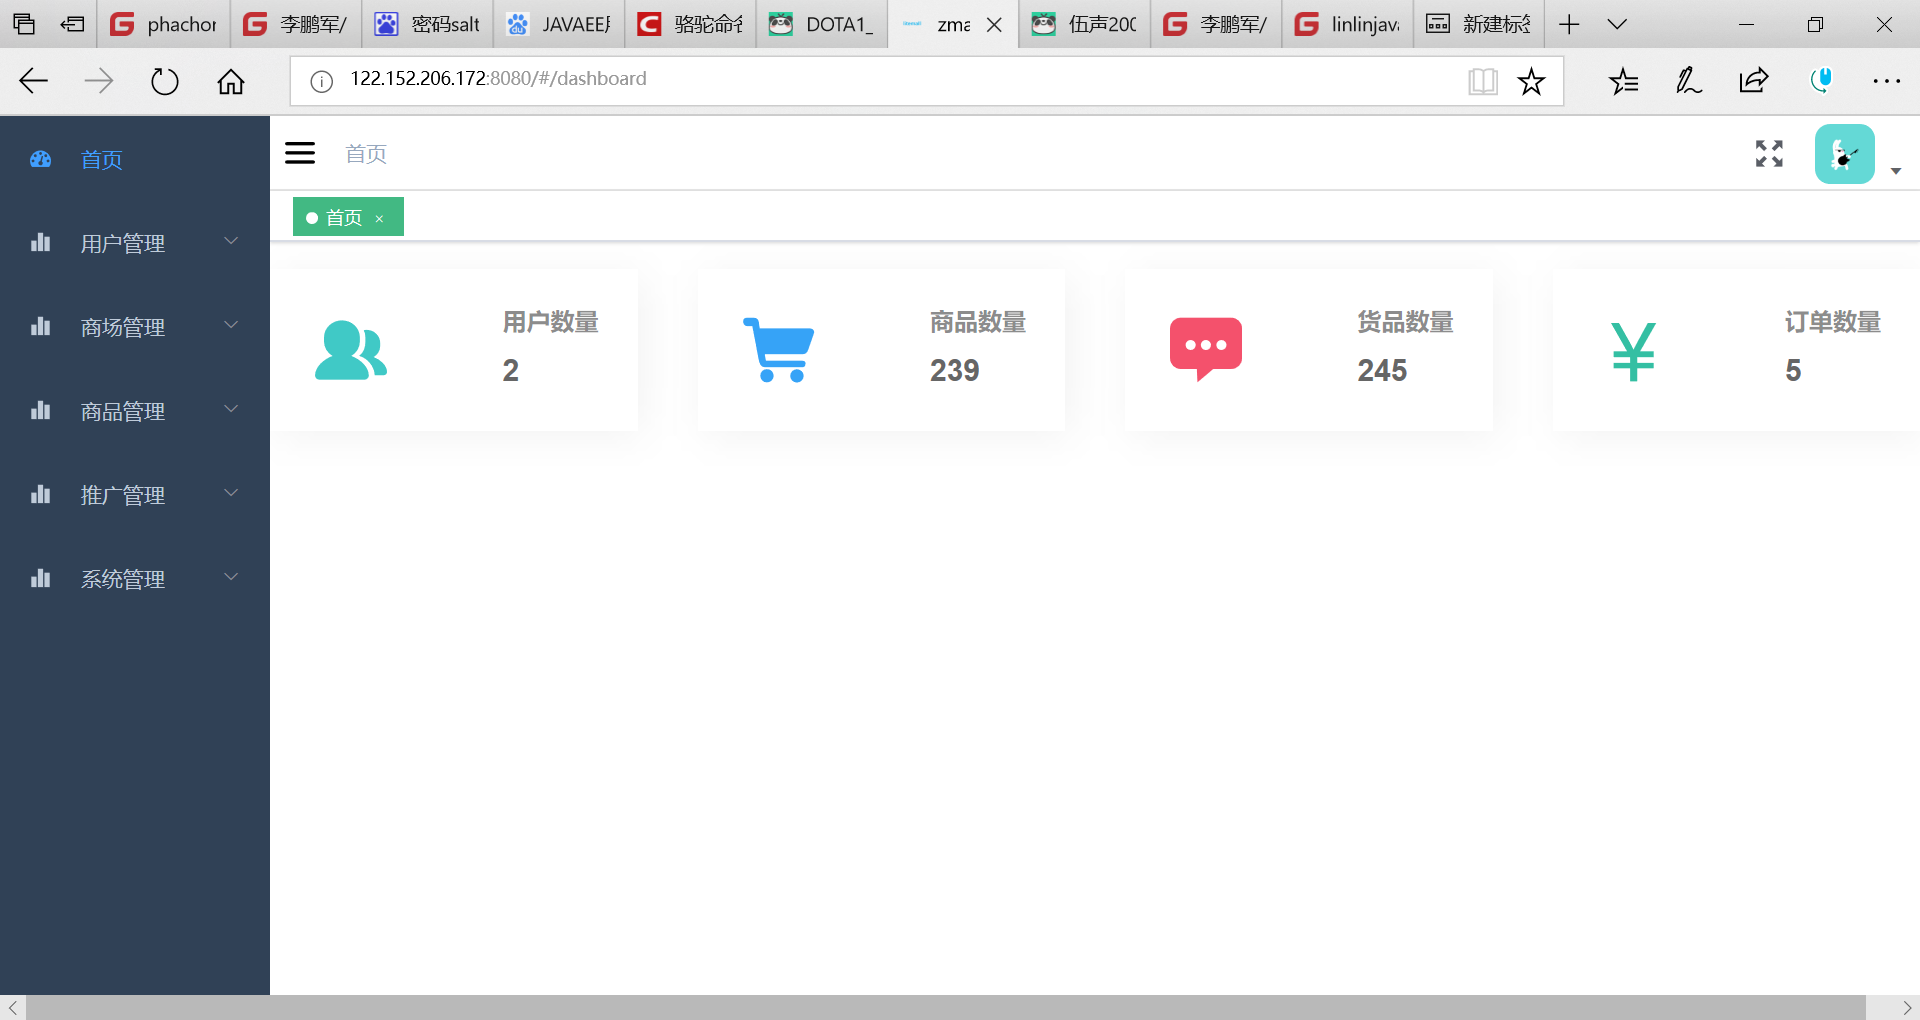
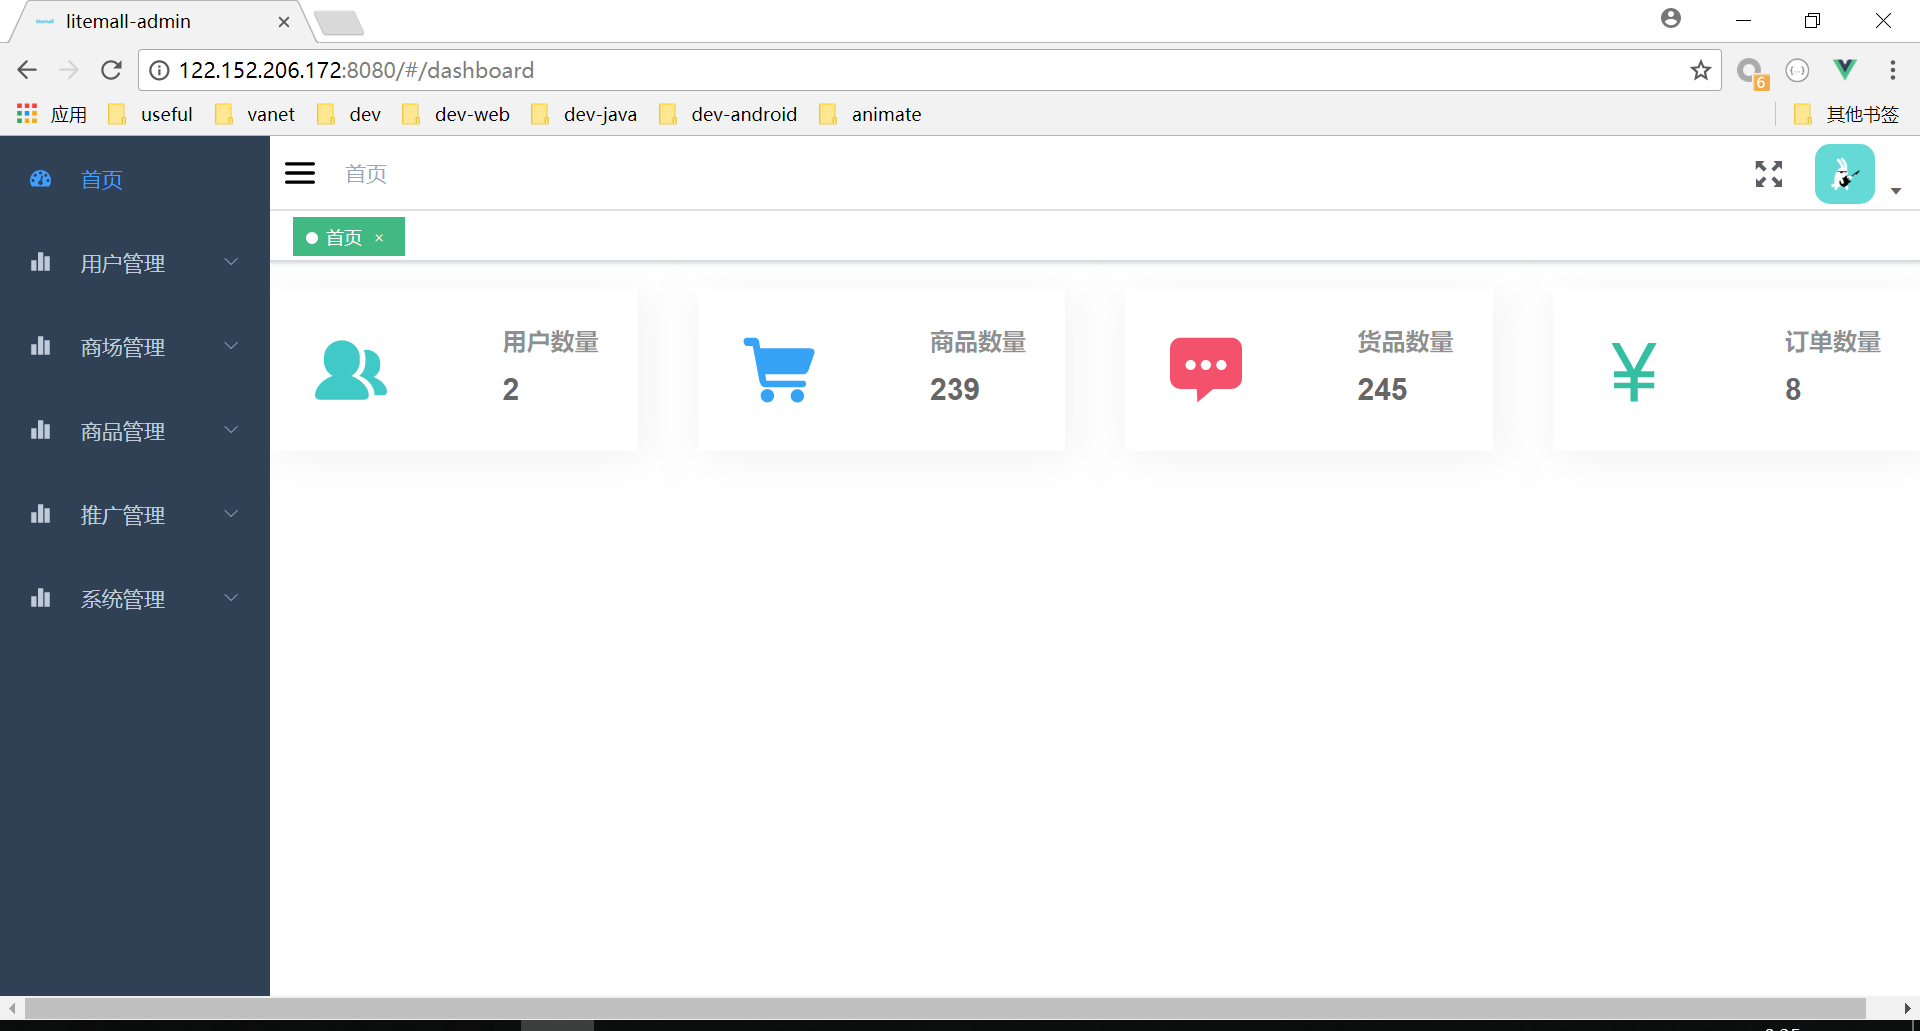
V 0.1.0, 项目架构基本完成。

diff --git a/litemall-admin/index.html b/litemall-admin/index.html
@@ -5,7 +5,7 @@
 		<meta http-equiv="X-UA-Compatible" content="IE=edge,chrome=1">
 		<meta name="renderer" content="webkit">
 		<meta name="viewport" content="width=device-width, initial-scale=1, maximum-scale=1, user-scalable=no">
-		<title>zmall-admin</title>
+		<title>litemall-admin</title>
 	</head>
 	<script src=<%= htmlWebpackPlugin.options.path %>/tinymce4.7.5/tinymce.min.js></script>
 	<body>
